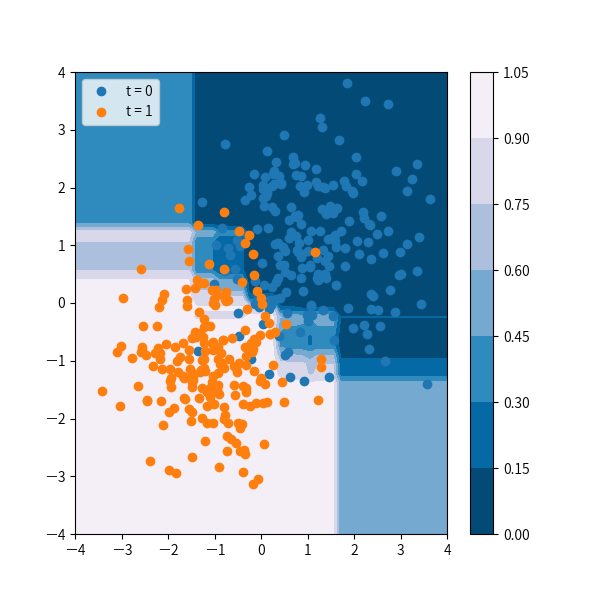
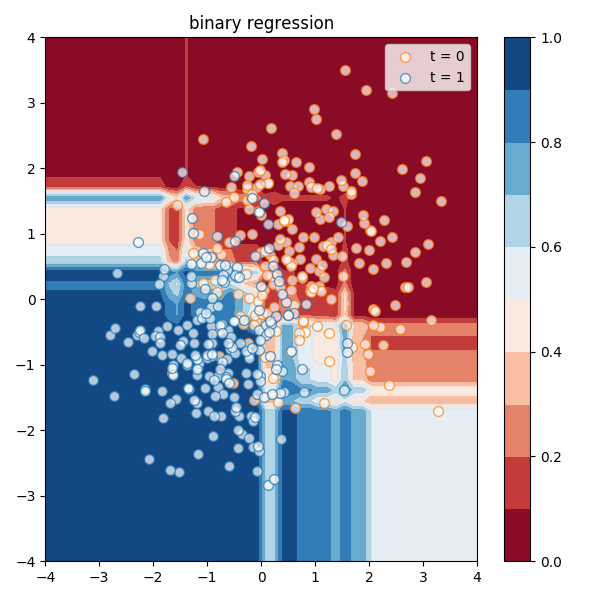
[Update] 関数へのコメント追加 / 実験の絵を update

diff --git a/gbdtree/gbdtree.py b/gbdtree/gbdtree.py
@@ -8,37 +8,37 @@ logger = get_logger(__name__, "INFO")
 
 class Node(object):
     """
-    Gradient Boosting で作成する木構造のノード
+    Gradient Boosting で作成する木構造のノード object
     """
 
     totalNodeNum = 0
 
-    def __init__(self, x, t, grad, hess, lam=1e-4, obj_function="cross_entropy"):
+    def __init__(self, x, t, grad, hess, lam=1e-4, objective_function="cross_entropy"):
         """
         :param x:
         :param t:
         :param grad:
         :param hess:
         :param lam:
-        :param obj_function: 目的関数
+        :param objective_function: 目的関数
         """
-        if (len(x.shape) == 1):
+        if len(x.shape) == 1:
             x = x.reshape(-1, 1)
-            
+
         Node.totalNodeNum += 1
         self.id = Node.totalNodeNum
         self.x = x
         self.t = t
         self.grad = grad
-        self.hess = hess 
+        self.hess = hess
         self.lam = lam
 
-        if obj_function == "cross_entropy":
-            self.obj_function = CrossEntropy()
-        elif isinstance(obj_function, Objective):
-            self.obj_function = obj_function
+        if objective_function == "cross_entropy":
+            self.objective_function = CrossEntropy()
+        elif isinstance(objective_function, Objective):
+            self.objective_function = objective_function
         else:
-            raise ValueError("obj_function must be `Objective` instance")
+            raise ValueError("objective_function must be `Objective` instance")
 
         self.feature = None
         self.threshold = None
@@ -57,13 +57,13 @@ class Node(object):
         self.best_gain = 0.
         self.best_threshold = None
         self.best_feature_idx = None
-        
 
     def predict(self, x):
         """
         :param np.ndarray x:
         :return: np.ndarray
         """
+        # 子供ノードがある場合それに予測をさせる
         if self.has_children:
             return np.where(x[:, self.feature] < self.threshold,
                             self.left.predict(x),
@@ -71,9 +71,14 @@ class Node(object):
         else:
             return self.y
 
-    def calculate_objective_value(self, grad, hess):
+    def _calculate_objective_value(self, grad, hess):
         """
         勾配、ヘシアン情報から、二次近似された objective function の値を計算
+        :param np.ndarray grad
+            目的関数の勾配の配列. shape = (n_samples, )
+        :param np.ndarray hess
+            目的関数のヘシアンの配列. shape = (n_samples, )
+        :rtype float
         """
 
         obj_val = - grad.sum() ** 2. / (self.lam + hess.sum()) / 2.
@@ -81,18 +86,20 @@ class Node(object):
 
     def calculate_index_obj(self, idx):
         """
-        自分の持っているデータの中の一部を使ってobjective functionの値を計算
-        :param np.ndarray idx: 求めたい grad 及び hessian の index
+        自分の持っているデータの中の一部を使って `objective function` の値を計算
+        :param np.ndarray idx: 求めたいデータの index の配列. shape = (n_samples, )
+        :return objective value
+        :rtype float
         """
-        return self.calculate_objective_value(self.grad[idx], self.hess[idx])
+        return self._calculate_objective_value(self.grad[idx], self.hess[idx])
 
     def build(self, best_gain):
         """
         best_gain と同じ値を持つノードの分割を実行する.
 
         子ノードが存在する場合は、子ノードどちらかに `best_gain` を持つものが存在するので
-        * `best_gain` をもつものがあるかどうかチェック
-        * 子ノードに対し再起的に `build"` の呼び出し
+        + `best_gain` をもつものがあるかどうかチェック
+        + 子ノードに対し再起的に `build"` の呼び出し
         """
 
         if self.has_children:
@@ -110,7 +117,7 @@ class Node(object):
             left_idx = x[:, f_idx] < threshold
             right_idx = x[:, f_idx] >= threshold
 
-            logger.debug('left:{0}\tright:{1}\tfeature_index:{2}'.format(
+            logger.debug('left-count:{0}\tright-count:{1}\tfeature_index:{2}'.format(
                 sum(left_idx), sum(right_idx), f_idx))
 
             l_x, l_t, l_g, l_h = x[left_idx], t[left_idx], self.grad[left_idx], self.hess[left_idx]
@@ -124,8 +131,11 @@ class Node(object):
 
     def calculate_best_gain(self):
         """
-        自分以下のノードが分割されたときの最も良いgainの値を計算して、それを返す
-        末端のノードの際にはそれに加えてどの特徴indexで閾値を幾つで分割すれば良いかも同時に保存
+        自分以下のノードが分割されたときの最も良い `gain` の値を計算しそれを返す
+        末端のノードの際にはそれに加えて以下を保存する
+
+        + どの `index` で分割を行うか - `best_feature_idx`
+        + 閾値を幾つで分割するか - `best_threshold`
         """
 
         # 親ノードのとき子ノードに計算を再起的に呼び出し
@@ -183,10 +193,23 @@ class Node(object):
             return self.left.calculate_children_objective() + self.right.calculate_children_objective()
 
         # 末端ノードの時真面目に計算
-        loss = self.calculate_objective_value(grad=self.grad, hess=self.hess)
+        loss = self._calculate_objective_value(grad=self.grad, hess=self.hess)
         return loss
 
     def _describe(self):
+        """
+        この Node の情報を dict で出力するメソッド
+        :return: Node 情報の dictionary.
+            key は以下のような情報を持つ
+            * data
+                * id: ノードId
+                * num_children: このノード以下に存在するデータの数
+
+                > これ以下はこのノードが子ノードを持つ場合のみ出力
+                * feature_id: 分割が行われた特徴量の id
+                * gain: Node の分割により改善される Objective の値 (Gain)
+        :rtype dict
+        """
         retval = {
             "data": {
                 "id": self.id,
@@ -196,13 +219,15 @@ class Node(object):
         if self.has_children:
             retval["data"]["feature_id"] = self.best_feature_idx
             retval["data"]["gain"] = self.best_gain
-        
+
         return retval
 
     def show_network(self):
         """
-        ネットワーク構造を木構造で記述したいなあと思っていた. 未実装.
-        :return:
+        ノードの情報とノード同士のつながりを出力する
+        自分の子ノードに対しても再帰的に呼び出しを行う.
+        :return: node, edige の tuple
+        :rtype list[dict] list[dict]
         """
         if self.has_children is False:
             return [self._describe()], None
@@ -232,11 +257,11 @@ class GradientBoostedDT(object):
     Gradient Boosted Decision Tree による予測モデル
     """
 
-    def __init__(self, regobj="cross_entropy", loss="logistic",
+    def __init__(self, objective="cross_entropy", loss="logistic",
                  max_depth=8, gamma=1., num_iter=20, eta=.1, lam=.01,
                  ):
         """
-        :param str | Objective regobj:
+        :param str | Objective objective:
             回帰する目的関数 or それを表す文字列. (文字列は今は `cross_entropy` のみに対応)
             要するに call した時に (grad, hess) の tuple を返す必要がある.
         :param str | () => loss: ロス関数. `logistic` or callable object
@@ -248,13 +273,13 @@ class GradientBoostedDT(object):
         :param float eta: boostingのステップサイズ
         :param float lam: 目的関数の正則化パラメータ
         """
-        if regobj == "cross_entropy":
-            self.regobj = CrossEntropy()
-        elif isinstance(regobj, Objective):
-            self.regobj = regobj
+        if objective == "cross_entropy":
+            self.objective = CrossEntropy()
+        elif isinstance(objective, Objective):
+            self.objective = objective
         else:
-            logger.warning(type(regobj))
-            raise ValueError("Only support `cross_entropy`. Actually: {}".format(regobj))
+            logger.warning(type(objective))
+            raise ValueError("Only support `cross_entropy`. Actually: {}".format(objective))
 
         if loss == "logistic":
             self.loss = logistic_loss
@@ -263,7 +288,7 @@ class GradientBoostedDT(object):
         else:
             raise ValueError("arg `loss` is only supported `logistic`. ")
 
-        self.activate = self.regobj.activate
+        self.activate = self.objective.activate
         self.trees = []
         self.max_depth = max_depth
         self.gamma = gamma
@@ -279,7 +304,8 @@ class GradientBoostedDT(object):
         :param np.ndarray x: 特徴量の numpy array. shape = (n_samples, n_features)
         :param np.ndarray t: 目的変数の numpy array. shape = (n_samples, )
         :param [np.ndarray, np.ndarray] | None valid_data:
-            (x, t) で構成された validation data. None 以外が与えら得た時各 iteration ごとにこのデータを用いて validation loss を計算する.
+            (x, t) で構成された validation data.
+            None 以外が与えら得た時各 iteration ごとにこのデータを用いて validation loss を計算する.
         :param int verbose:
         :return:
         """
@@ -288,7 +314,7 @@ class GradientBoostedDT(object):
         elif verbose > 1:
             logger.setLevel("DEBUG")
 
-        if (len(x.shape) == 1):
+        if len(x.shape) == 1:
             x = x.reshape(-1, 1)
         self.f = np.zeros_like(t)
         self.training_loss = []
@@ -297,7 +323,7 @@ class GradientBoostedDT(object):
 
         for i in range(self.num_iter):
             # 直前の予測値と目的の値とで勾配とヘシアンを計算
-            grad, hess = self.regobj(self.f, t)
+            grad, hess = self.objective(self.f, t)
 
             root_node = Node(x=x, t=t, grad=grad, hess=hess, lam=self.lam)
 

diff --git a/sample.py b/sample.py
@@ -19,7 +19,7 @@ def generate_continuous_data(true_function="default", x_scale=2., num_samples=10
     :param int num_samples:
     :param float noise_scale:
     :param int seed:
-    :return:
+    :return: 入力変数 x, その正解ラベル t の tuple
     :rtype (np.ndarray, np.ndarray)
     """
     np.random.seed(seed)
@@ -39,7 +39,7 @@ def regression_sample(true_func=np.sin, x_scale=3.):
     x, t = generate_continuous_data(true_function=true_func, x_scale=x_scale)
 
     trained_models = []
-    iteration_dist = [5, 10, 20, 40]
+    iteration_dist = [5, 10, 20, 40, 100]
     for n_iter in iteration_dist:
         # GradientBoostedDTの定義
         # 連続変数に対しての回帰問題なので
@@ -49,8 +49,8 @@ def regression_sample(true_func=np.sin, x_scale=3.):
         rmse_objective = gb.LeastSquare()
         loss_function = gb.functions.least_square
         clf = gb.GradientBoostedDT(
-            regobj=rmse_objective, loss=loss_function, 
-            max_depth=8, num_iter=n_iter, gamma=.01, lam=.1, eta=.1)
+            objective=rmse_objective, loss=loss_function,
+            max_depth=4, num_iter=n_iter, gamma=.01, lam=.1, eta=.1)
         clf.fit(x=x, t=t)
         trained_models.append(clf)
 
@@ -74,8 +74,8 @@ def binary_classification_sample():
     """
     np.random.seed = 71
     x = (
-        np.random.normal(loc=1., scale=1., size=400).reshape(200, 2),
-        np.random.normal(loc=-1., scale=1., size=400).reshape(200, 2),
+        np.random.normal(loc=.7, scale=1., size=400).reshape(200, 2),
+        np.random.normal(loc=-.7, scale=1., size=400).reshape(200, 2),
     )
     t = np.zeros_like(x[0]), np.ones_like(x[1])
     x = np.append(x[0], x[1], axis=0)
@@ -89,7 +89,7 @@ def binary_classification_sample():
     # ロス関数はロジスティクスロス
     loss = gb.logistic_loss
 
-    clf = gb.GradientBoostedDT(regobj, loss, max_depth=8, gamma=.1, lam=1e-2, eta=.1, num_iter=40)
+    clf = gb.GradientBoostedDT(regobj, loss, max_depth=5, gamma=.05, lam=3e-2, eta=.1, num_iter=50)
     clf.fit(x=x_train, t=t_train, valid_data=(x_test, t_test))
 
     networks = clf.show_network()
@@ -100,10 +100,10 @@ def binary_classification_sample():
     fig = plt.figure(figsize=(6, 6))
     ax = fig.add_subplot(1, 1, 1)
     ax.set_title('Training Transitions')
-    ax.plot(clf.training_loss, 'o-', label='Training Loss')
-    ax.plot(clf.validation_loss, 'o-', label='Validation Loss')
+    ax.plot(clf.training_loss, 'o-', label='Training')
+    ax.plot(clf.validation_loss, 'o-', label='Validation')
     ax.set_xlabel("Iterations")
-    ax.set_ylabel("Loss Function")
+    ax.set_ylabel("Loss Transition")
     ax.legend()
     fig.savefig("experiment_figures/training_transitions.png", dpi=150)
 
@@ -114,12 +114,16 @@ def binary_classification_sample():
     X, Y = np.meshgrid(xx, yy)
     Z = [clf.predict(np.array([a, b]).reshape(1, 2))[0] for a in xx for b in yy]
     Z = np.array(Z).reshape(len(xx), len(yy))
-    levels = np.linspace(0, 1, 21)
-    plt.contourf(X, Y, Z, levels, cmap=cm.PuBu_r)
+    levels = np.linspace(0, 1, 11)
+    plt.contour(X, Y, Z, levels, colors=["gray"], alpha=.05)
+    plt.contourf(X, Y, Z, levels, cmap=cm.RdBu)
+    # plt.contour(X, Y, Z, levels, cmap=cm.PuBu_r)
     cbar = plt.colorbar()
-    plt.scatter(x[:200, 0], x[:200, 1], s=50, label="t = 0", edgecolors="C0", alpha=.5, linewidth=1., color="white")
-    plt.scatter(x[200:, 0], x[200:, 1], s=50, label="t = 1", edgecolors="C1", alpha=.5, linewidth=1., color="white")
+    plt.scatter(x[:200, 0], x[:200, 1], s=50, label="t = 0", edgecolors="C1", alpha=.7, linewidth=1, facecolor="white")
+    plt.scatter(x[200:, 0], x[200:, 1], s=50, label="t = 1", edgecolors="C0", alpha=.7, linewidth=1, facecolor="white")
     plt.legend()
+    plt.title("binary regression")
+    plt.tight_layout()
     plt.savefig('experiment_figures/binary_classification.png', dpi=100)
 
     pred_prob = clf.predict(x_test)
@@ -130,5 +134,7 @@ def binary_classification_sample():
 
 
 if __name__ == '__main__':
-    regression_sample()
+    def test_function(x):
+        return 1 / (1. + np.exp(-4 * x)) + .5 * np.sin(4 * x)
+    regression_sample(true_func=test_function, x_scale=2.)
     binary_classification_sample()
